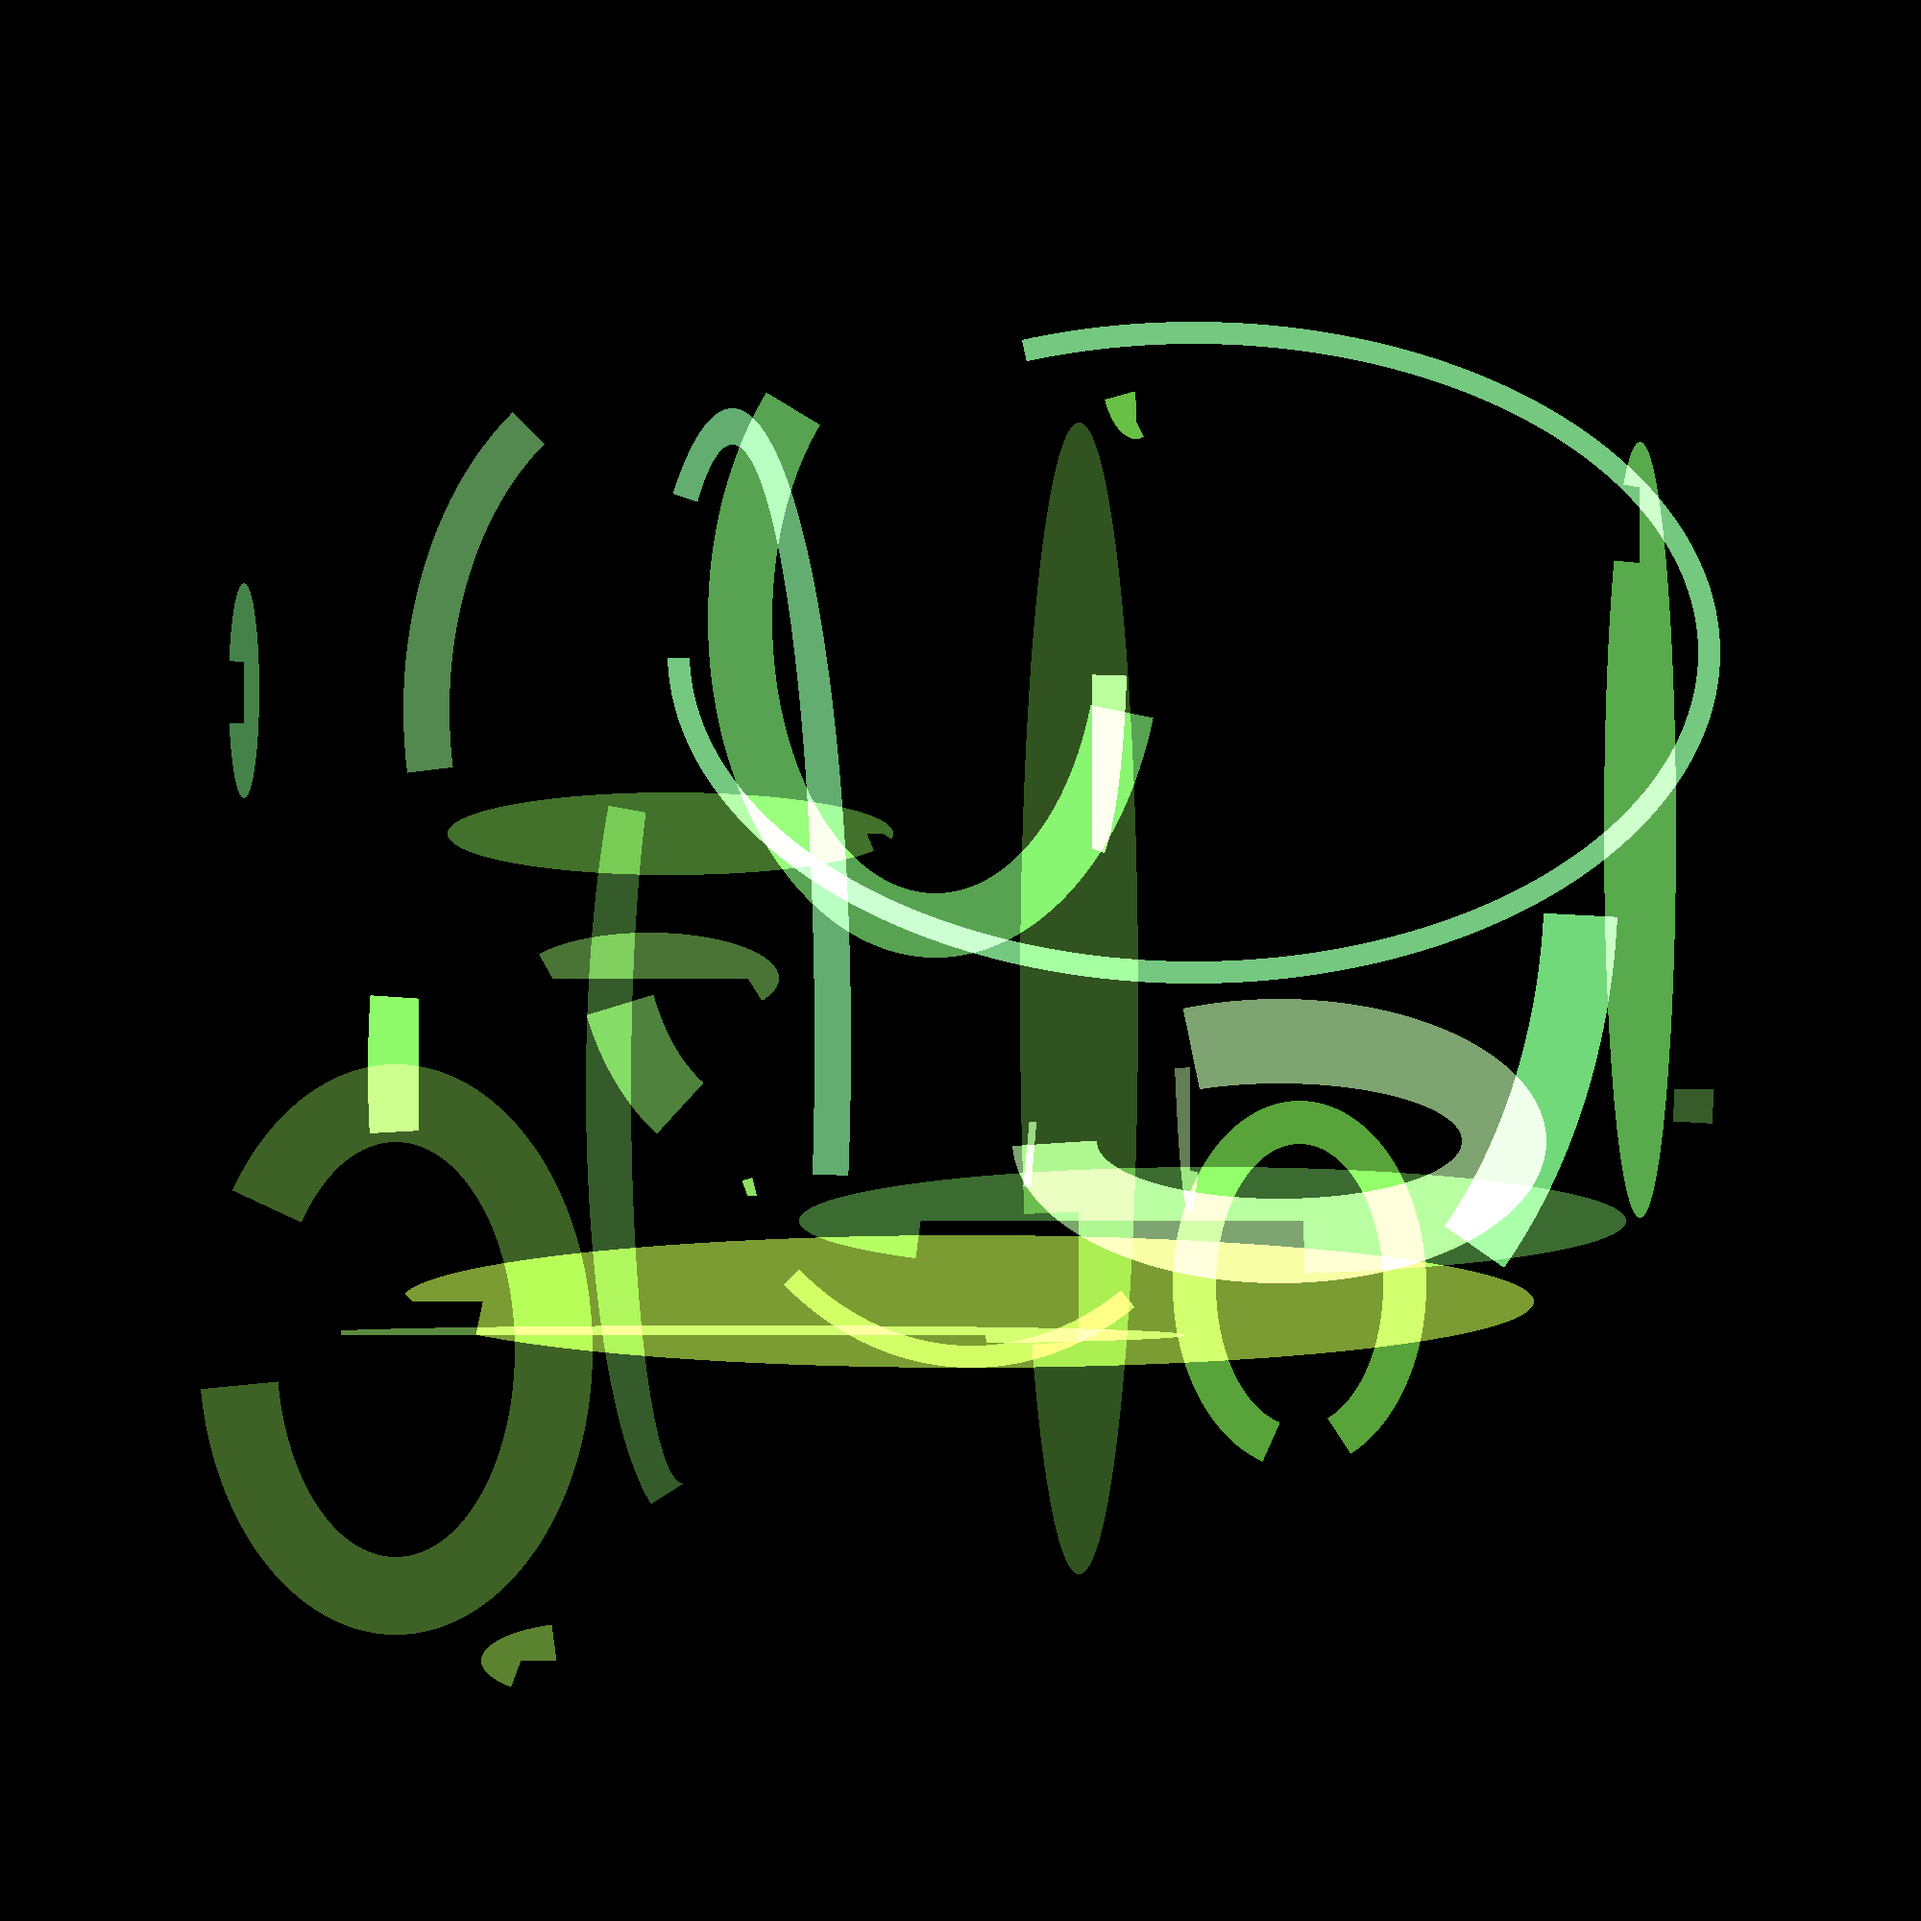
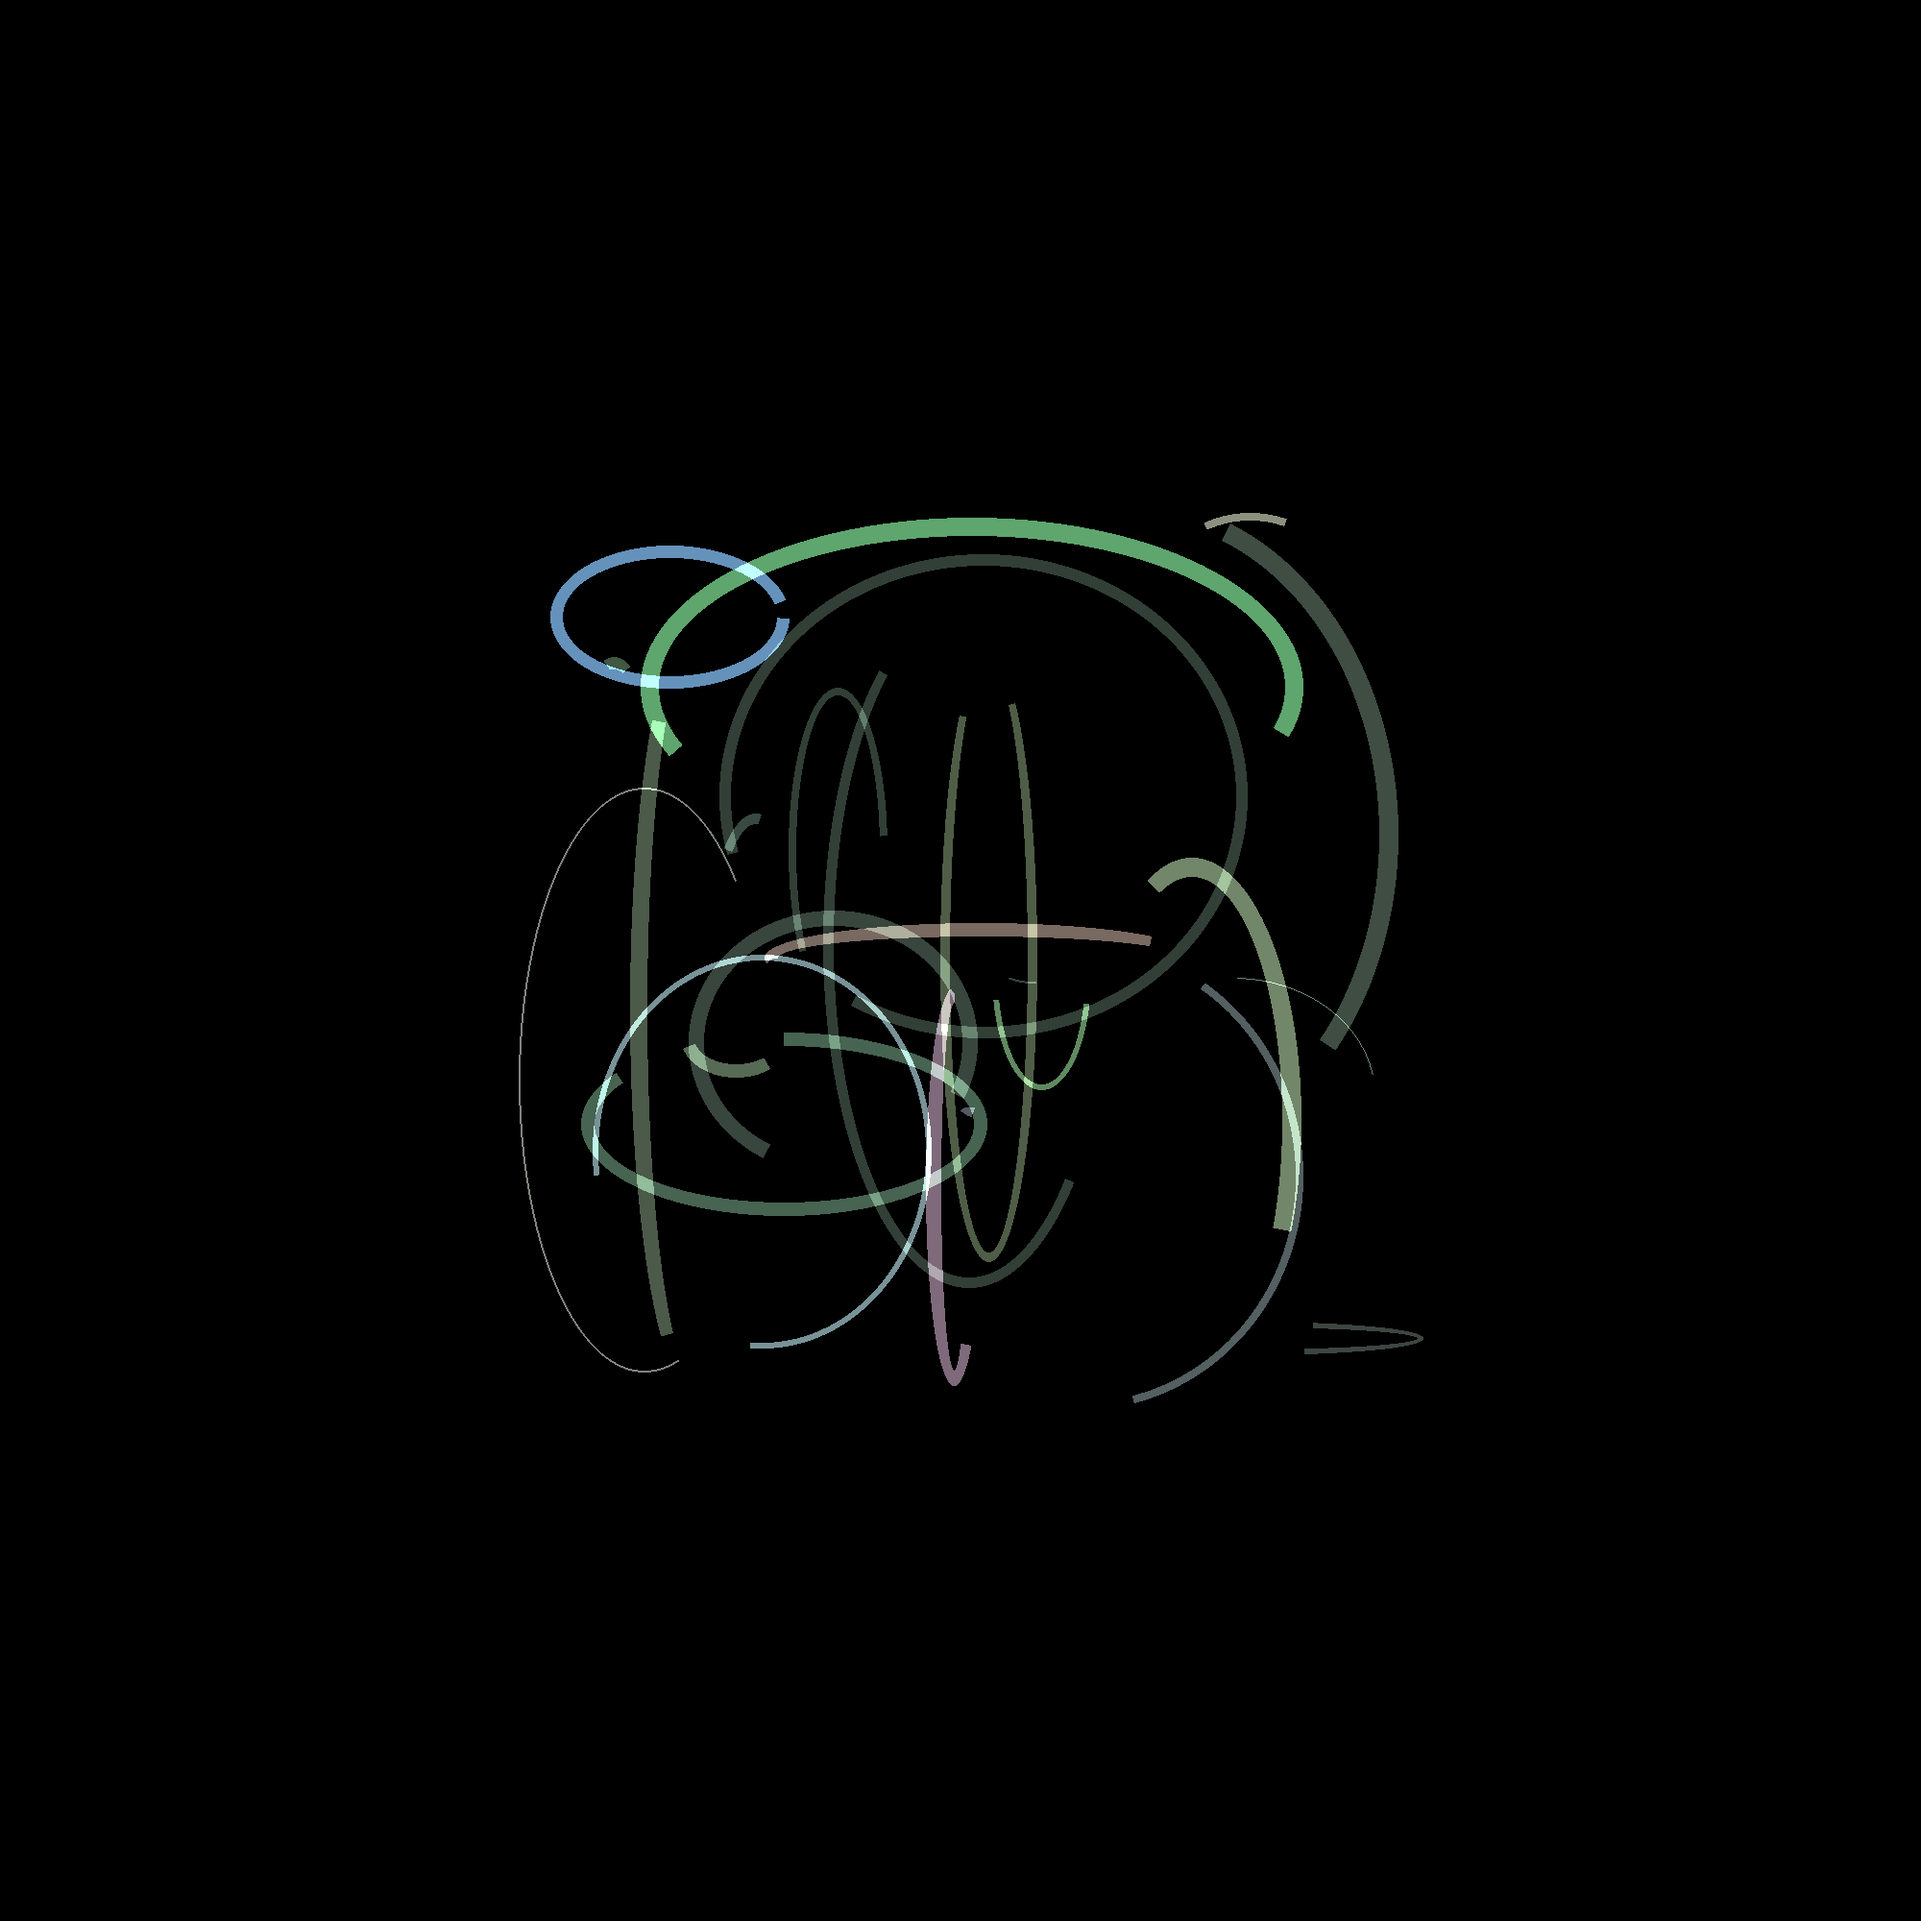
adding meta shapes

Changed region(s): [[0.093, 0.155, 0.899, 0.899], [0.093, 0.31, 0.155, 0.403]]

diff --git a/projects/Generative Art/Matrica2/generate_art_arcs.py b/projects/Generative Art/Matrica2/generate_art_arcs.py
@@ -12,6 +12,16 @@ def fade(start_color,end_color,factor: float):
         int(start_color[2] * recip + end_color[2] * factor)
     )
 
+def random_square(x_padding, x_size):
+    choices = []
+    x1 = random.randint(x_padding,x_padding * 2)
+    x2 = random.randint(x_size - (x_padding * 2), (x_size - x_padding))
+    choices.append(x1)
+    choices.append(x2)
+    choice = (random.choice(choices))
+    return choice
+
+
 
 def generate_art_arcs(path : str):
     #print background
@@ -19,7 +29,7 @@ def generate_art_arcs(path : str):
     print("Building")
     image_color = (0,0,0)#(random.randint(0,255),random.randint(0,255),random.randint(0,255))
     image_size_x = 2000
-    padding_size = 200
+    padding_size = random.randint(200,600)
     image_size_y = 2000
     start_color = random_color()
     end_color = random_color()
@@ -32,12 +42,15 @@ def generate_art_arcs(path : str):
     draw = ImageDraw.Draw(image)
     line_count = random.randint(100,100)
     points = []
+    points_x = []
 
     # generate points
     for i in range(line_count):
         point_1 = (
-            random.randint(padding_size,image_size_x - padding_size),
-            random.randint(padding_size,image_size_y - padding_size)
+            random_square(x_padding=padding_size, x_size=image_size_x),
+            random_square(x_padding=padding_size, x_size=image_size_y)
+            # random.randint(padding_size,image_size_x - padding_size),
+            # random.randint(padding_size,image_size_y - padding_size)
         )
         #point_2 = (random.randint(0,image_size_x), random.randint(0,image_size_y))
         points.append(point_1)
@@ -64,7 +77,7 @@ def generate_art_arcs(path : str):
         line_color = fade(start_color,random_color(),color_factor)
 
         #draw.line(line_xy,fill=line_color,width=random.randint(1,100))
-        overlay_draw.arc(line_xy,start=random.randint(0,270),end=random.randint(0,270),fill=line_color,width=random.randint(1,100))
+        overlay_draw.arc(line_xy,start=random.randint(0,360),end=random.randint(0,360),fill=line_color,width=random.randint(1,20))
         image = ImageChops.add(image, overlay_image)
 
     #image.filter(ImageFilter.SMOOTH_MORE)
